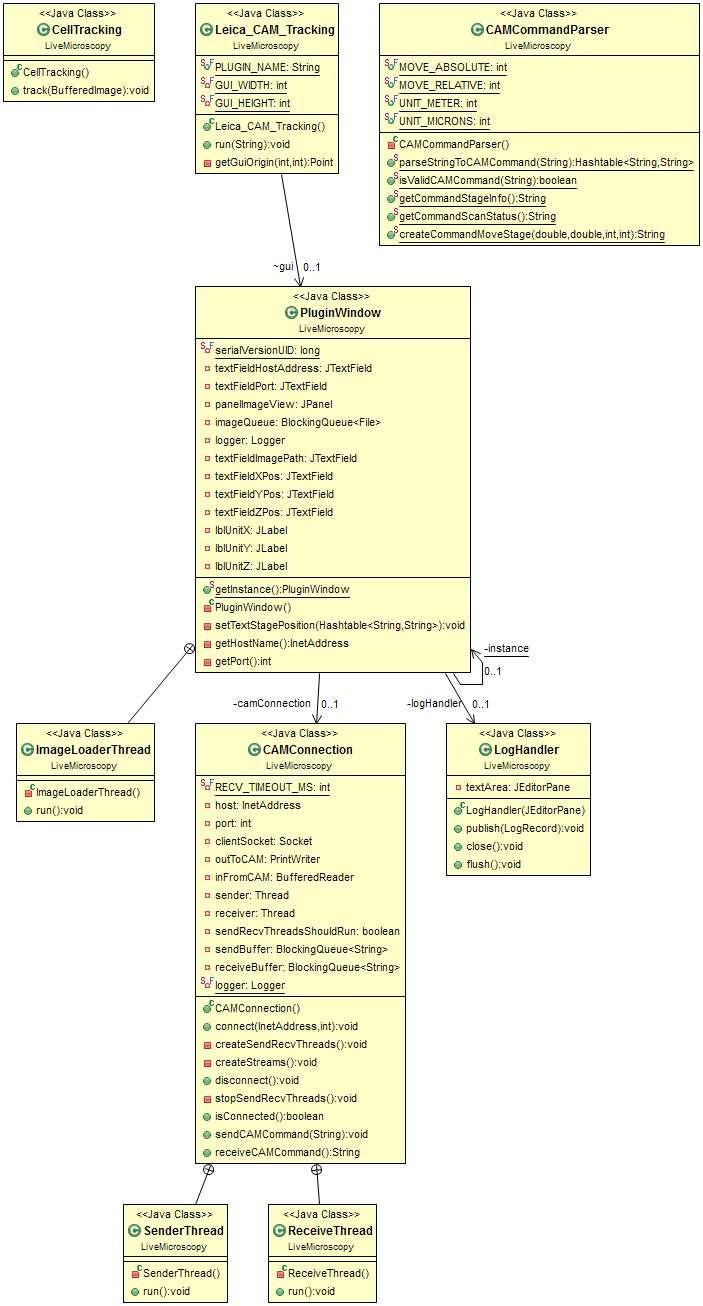
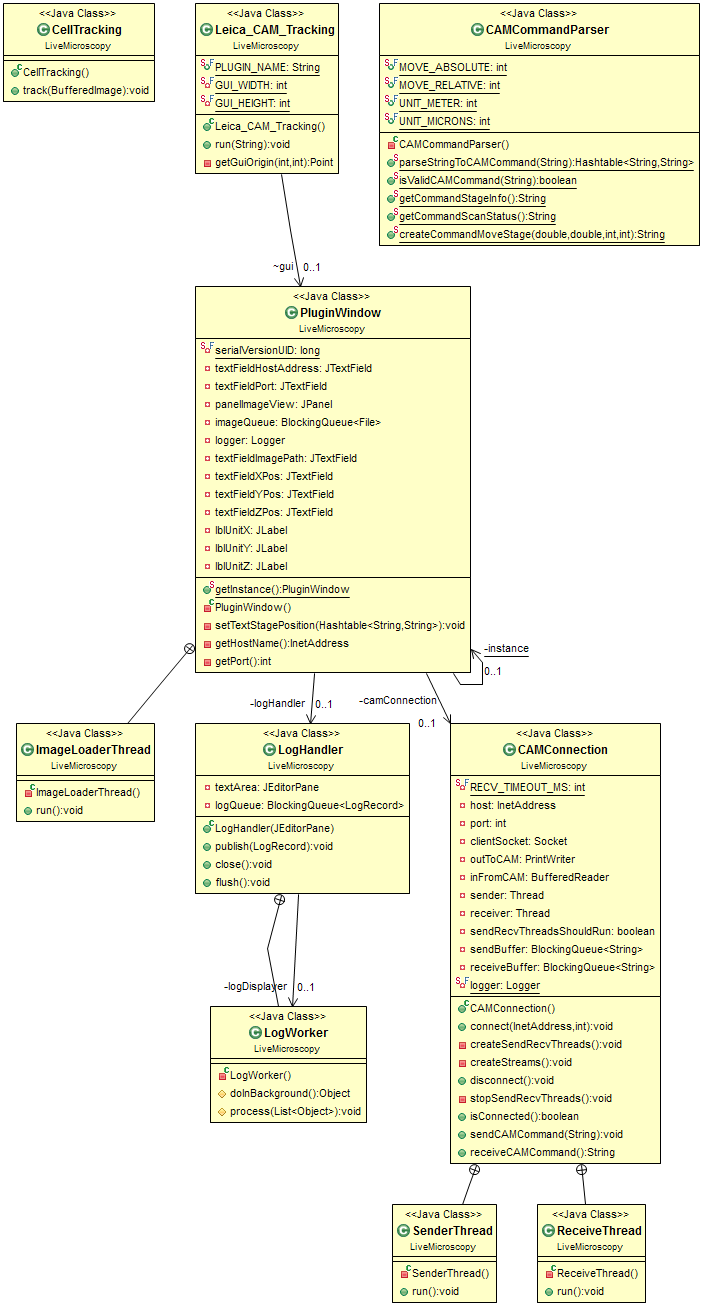
host / port fields become green, when connection is established

Changed region(s): [[0.1494, 0.5207, 0.9559, 1.0]]

diff --git a/src/LiveMicroscopy/PluginWindow.java b/src/LiveMicroscopy/PluginWindow.java
@@ -9,7 +9,12 @@ import java.awt.event.ActionEvent;
 import java.awt.event.ActionListener;
 import java.awt.image.BufferedImage;
 import java.io.File;
+import java.io.FileInputStream;
+import java.io.FileNotFoundException;
+import java.io.FileOutputStream;
 import java.io.IOException;
+import java.io.ObjectInputStream;
+import java.io.ObjectOutputStream;
 import java.net.InetAddress;
 import java.net.UnknownHostException;
 import java.util.Hashtable;
@@ -35,6 +40,8 @@ import javax.swing.JTextField;
 import javax.swing.border.EtchedBorder;
 import javax.swing.border.TitledBorder;
 import javax.swing.SwingConstants;
+
+import com.sun.org.apache.xml.internal.serialize.XML11Serializer;
 
 /**
  * Represents the GUI and the button actions of the ImageJ-plugin. This class is
@@ -126,7 +133,6 @@ public class PluginWindow extends JFrame {
 		textFieldPort.setBounds(55, 54, 125, 28);
 		panelConnection.add(textFieldPort);
 		textFieldPort.setText("8895");
-		textFieldPort.setEditable(false);
 		textFieldPort.setColumns(5);
 
 		JScrollPane scrollPaneLogging = new JScrollPane();
@@ -157,7 +163,8 @@ public class PluginWindow extends JFrame {
 				try {
 					camConnection.connect(getHostName(), getPort());
 					if (camConnection.isConnected()) {
-						camConnection.sendCAMCommand("Hallo CAM");
+						setConnectionStatusGUI(true);
+						String returnedMessage = camConnection.receiveCAMCommand();
 					}
 				} catch (UnknownHostException e) {
 					logger.warning("Invalid host address format: " + e.getMessage());
@@ -179,6 +186,7 @@ public class PluginWindow extends JFrame {
 			public void actionPerformed(ActionEvent event) {
 				if (camConnection != null) {
 					camConnection.disconnect();
+					setConnectionStatusGUI(false);
 				}
 			}
 		});
@@ -278,10 +286,12 @@ public class PluginWindow extends JFrame {
 			public void actionPerformed(ActionEvent event) {
 				if (camConnection.isConnected()) {
 					String camCommand = textAreaCamCommand.getText();
-					if (CAMCommandParser.isValidCAMCommand(camCommand))
+					if (CAMCommandParser.isValidCAMCommand(camCommand)) {
 						camConnection.sendCAMCommand(camCommand);
-					else
+						String returnedMessage = camConnection.receiveCAMCommand();
+					} else {
 						logger.severe("Wrong CAM Command structure.");
+					}
 				}
 			}
 		});
@@ -317,6 +327,7 @@ public class PluginWindow extends JFrame {
 			public void actionPerformed(ActionEvent event) {
 				if (camConnection.isConnected()) {
 					camConnection.sendCAMCommand(CAMCommandParser.getCommandScanStatus());
+					String returnedMessage = camConnection.receiveCAMCommand();
 				}
 			}
 		});
@@ -416,7 +427,7 @@ public class PluginWindow extends JFrame {
 		panelScreeningSettings.add(lblResolution);
 
 		JComboBox<String> comboBoxResolution = new JComboBox<String>();
-		comboBoxResolution.setModel(new DefaultComboBoxModel(new String[] { "not yet implemented" }));
+		comboBoxResolution.setModel(new DefaultComboBoxModel<String>(new String[] { "not yet implemented" }));
 		comboBoxResolution.setBounds(85, 24, 95, 20);
 		panelScreeningSettings.add(comboBoxResolution);
 
@@ -432,30 +443,6 @@ public class PluginWindow extends JFrame {
 		JButton btnStartTracking = new JButton("Start Tracking");
 		btnStartTracking.setBounds(10, 83, 170, 23);
 		panelScreeningSettings.add(btnStartTracking);
-
-		JMenuBar menuBar = new JMenuBar();
-		setJMenuBar(menuBar);
-
-		JMenu mnConnection = new JMenu("Connection");
-		menuBar.add(mnConnection);
-
-		JMenuItem mntmSaveSettings = new JMenuItem("Save Settings...");
-		mntmSaveSettings.addActionListener(new ActionListener() {
-			public void actionPerformed(ActionEvent event) {
-				// TODO: Implement saving connection settings
-				IJ.showMessage("Not yet implemented");
-			}
-		});
-		mnConnection.add(mntmSaveSettings);
-
-		JMenuItem mntmLoadSettings = new JMenuItem("Load Settings...");
-		mntmLoadSettings.addActionListener(new ActionListener() {
-			public void actionPerformed(ActionEvent e) {
-				// TODO: Implement loading connection settings
-				IJ.showMessage("Not yet implemented");
-			}
-		});
-		mnConnection.add(mntmLoadSettings);
 	}
 
 	// >>>>>>>>>>>>>>>>>>>>>>>>>>>>>>>>>>>>>>>>>>>>>>>>>>>>>>>>>>>>>>>>>>>>>>>>
@@ -463,14 +450,31 @@ public class PluginWindow extends JFrame {
 	// <<<<<<<<<<<<<<<<<<<<<<<<<<<<<<<<<<<<<<<<<<<<<<<<<<<<<<<<<<<<<<<<<<<<<<<<
 
 	private void setTextStagePosition(Hashtable<String, String> camCommand) {
-		if (camCommand.get("app").equals("matrix") && camCommand.get("dev").equals("stage")
-				&& camCommand.get("info_for").equals(Leica_CAM_Tracking.PLUGIN_NAME)) {
-			textFieldXPos.setText(camCommand.get("xpos"));
-			textFieldYPos.setText(camCommand.get("ypos"));
-			textFieldZPos.setText(camCommand.get("zpos"));
-			lblUnitX.setText(camCommand.get("unit"));
-			lblUnitY.setText(camCommand.get("unit"));
-			lblUnitZ.setText(camCommand.get("unit"));
+		if (camCommand.containsKey("app") && camCommand.containsKey("dev") 
+				&& camCommand.containsKey("info_for")) {
+			if (camCommand.get("app").equals("matrix") && camCommand.get("dev").equals("stage")
+					&& camCommand.get("info_for").equals(Leica_CAM_Tracking.PLUGIN_NAME)) {
+				textFieldXPos.setText(camCommand.get("xpos"));
+				textFieldYPos.setText(camCommand.get("ypos"));
+				textFieldZPos.setText(camCommand.get("zpos"));
+				lblUnitX.setText(camCommand.get("unit"));
+				lblUnitY.setText(camCommand.get("unit"));
+				lblUnitZ.setText(camCommand.get("unit"));
+			}
+		}
+	}
+	
+	private void setConnectionStatusGUI(boolean connected) {
+		if (connected) {
+			textFieldHostAddress.setEnabled(false);
+			textFieldHostAddress.setBackground(new Color(102, 255, 000));
+			textFieldPort.setEnabled(false);
+			textFieldPort.setBackground(new Color(102, 255, 000));
+		} else {
+			textFieldHostAddress.setEnabled(true);
+			textFieldHostAddress.setBackground(Color.WHITE);
+			textFieldPort.setEnabled(true);
+			textFieldPort.setBackground(Color.WHITE);
 		}
 	}
 
@@ -505,6 +509,8 @@ public class PluginWindow extends JFrame {
 
 		@Override
 		public void run() {
+			Thread.currentThread().setName("Image Loader Thread");
+			
 			try {
 				CellTracking cellTracking = new CellTracking();
 
@@ -514,9 +520,8 @@ public class PluginWindow extends JFrame {
 					panelImageView.paintComponents(panelImageView.getGraphics());
 					panelImageView.getGraphics().drawImage(image, 0, 0, null);
 
-					// TODO: Cell tracking and stage movement calculation comes
-					// here!
-					cellTracking.track(image); // or something ^^
+					// TODO: Cell tracking and stage movement calculation comes here!
+					cellTracking.track(image); // it's something ^^
 
 					// END _TODO
 

diff --git a/src/LiveMicroscopy/CAMConnection.java b/src/LiveMicroscopy/CAMConnection.java
@@ -10,6 +10,7 @@ import java.net.Socket;
 import java.net.SocketException;
 import java.util.concurrent.BlockingQueue;
 import java.util.concurrent.LinkedBlockingQueue;
+import java.util.concurrent.TimeUnit;
 import java.util.logging.Logger;
 
 /**
@@ -27,14 +28,12 @@ public class CAMConnection {
 	// <<<<<<<<<<<<<<<<<<<<<<<<<<<<<<<<<<<<<<<<<<<<<<<<<<<<<<<<<<<<<<<<<<<<<<<<
 
 	// timeout for blocking receive functions
-	private static final int RECV_TIMEOUT_MS = 500;
+	private static final int RECV_TIMEOUT_MS = 100;
 
 	// >>>>>>>>>>>>>>>>>>>>>>>>>>>>>>>>>>>>>>>>>>>>>>>>>>>>>>>>>>>>>>>>>>>>>>>>
 	// Connection fields
 	// <<<<<<<<<<<<<<<<<<<<<<<<<<<<<<<<<<<<<<<<<<<<<<<<<<<<<<<<<<<<<<<<<<<<<<<<
 
-	private InetAddress host;
-	private int port;
 	private Socket clientSocket 		= null;
 	private PrintWriter outToCAM 		= null;
 	private BufferedReader inFromCAM 	= null;
@@ -58,12 +57,12 @@ public class CAMConnection {
 	/**
 	 * Connects to host and creates input- and output-streams.
 	 */
-	public synchronized void connect(InetAddress host, int port) {
+	public void connect(InetAddress host, int port) {
 		try {
 			logger.info("Connecting to " + host + " at port " + port + "...");
-			logger.getHandlers()[0].flush();
 			
 			clientSocket = new Socket(host, port);
+			clientSocket.setSoTimeout(RECV_TIMEOUT_MS);
 			
 			createStreams();
 			createSendRecvThreads();
@@ -97,7 +96,6 @@ public class CAMConnection {
 		outToCAM = new PrintWriter(outputStream);
 		
 		// input
-		clientSocket.setSoTimeout(RECV_TIMEOUT_MS);
 		InputStream inputStream = clientSocket.getInputStream();
 		inFromCAM = new BufferedReader(new InputStreamReader(inputStream));
 	}
@@ -108,7 +106,7 @@ public class CAMConnection {
 	 * socket. It will prompt windows to close and remove the JAVA based socket
 	 * from the socket server list.
 	 */
-	public synchronized void disconnect() {
+	public void disconnect() {
 		if (!(clientSocket == null)) {
 			try {
 				stopSendRecvThreads();
@@ -146,7 +144,7 @@ public class CAMConnection {
 		sender.join();
 	}
 
-	public synchronized boolean isConnected() {
+	public boolean isConnected() {
 		if (clientSocket != null)
 			if (clientSocket.isConnected())
 				return true;
@@ -160,9 +158,10 @@ public class CAMConnection {
 	 * @param command
 	 *            The CAM command
 	 */
-	public synchronized void sendCAMCommand(String command) {
+	public void sendCAMCommand(String command) {
 		try {
 			sendBuffer.put(command);
+			logger.info("Sent CAM command: " + command);
 		} catch (InterruptedException e) {
 			logger.warning("Interrupted while sending command: " + command + "\n> Error: " + e.getMessage() + " <");
 		}
@@ -173,15 +172,16 @@ public class CAMConnection {
 	 * 
 	 * @return last received CAM command
 	 */
-	public synchronized String receiveCAMCommand() {
+	public String receiveCAMCommand() {
 		String camCommand = "";
 		try {
-			camCommand = receiveBuffer.take();
-		} catch (InterruptedException e) {
-			logger.warning("Interrupted while receiving command: " + "\n> Error: " + e.getMessage() + " <");
+			camCommand = receiveBuffer.poll(150, TimeUnit.MILLISECONDS);
+		} catch (InterruptedException e) {}
+		if (camCommand != null) {
+			logger.info("Received CAM command: " + camCommand);
+			return camCommand;
 		}
-
-		return camCommand;
+		return "";
 	}
 	
 	// >>>>>>>>>>>>>>>>>>>>>>>>>>>>>>>>>>>>>>>>>>>>>>>>>>>>>>>>>>>>>>>>>>>>>>>>
@@ -196,20 +196,20 @@ public class CAMConnection {
 
 		@Override
 		public void run() {
-			logger.info("Starting sender thread.");
+			Thread.currentThread().setName("CAM Send Thread");
+			logger.info("Starting " + Thread.currentThread().getName() + "...");
 
 			while (sendRecvThreadsShouldRun) {
 				try {
 					String command = sendBuffer.take();
 					outToCAM.println(command);
 					outToCAM.flush();
-					logger.info("Sent CAM command: " + command);
 					int delayTime = 50; // delay for CAM Commands --> necessary for multiple CAM Commands (due to CAM documentation)
 					Thread.sleep(delayTime);
 				} catch (InterruptedException e) {} // No need to handle this
 			}
 			
-			logger.info("SenderThread terminated.");
+			logger.info(Thread.currentThread().getName() + " terminated.");
 		}
 	}
 
@@ -225,7 +225,8 @@ public class CAMConnection {
 
 		@Override
 		public void run() {
-			logger.info("Starting receiver thread.");
+			Thread.currentThread().setName("CAM Receive Thread");
+			logger.info("Starting " + Thread.currentThread().getName() + "...");
 
 			while (sendRecvThreadsShouldRun) {
 				try {
@@ -233,13 +234,12 @@ public class CAMConnection {
 					command = inFromCAM.readLine(); // realized with timeout at construction of inputStream
 					if (!command.isEmpty()) {
 						receiveBuffer.put(command);
-						logger.info("Received CAM command: " + command);
 					}
 				} catch (IOException e) { // No log because IOException is just caused by readLine() timeout.
 				} catch (InterruptedException e) {} // No need to handle this
 			}
 			
-			logger.info("ReceiveThread terminated.");
+			logger.info(Thread.currentThread().getName() + " terminated.");
 		}
 	}
 }

diff --git a/src/LiveMicroscopy/Leica_CAM_Tracking.java b/src/LiveMicroscopy/Leica_CAM_Tracking.java
@@ -1,4 +1,5 @@
 package LiveMicroscopy;
+import ij.IJ;
 import ij.plugin.PlugIn;
 
 import java.awt.Dimension;
@@ -39,6 +40,7 @@ public class Leica_CAM_Tracking implements PlugIn {
 
 	@Override
 	public void run(String arg0) {
+		
 		try { // set look and feel to OS style
 			UIManager.setLookAndFeel(UIManager.getSystemLookAndFeelClassName());
 		} catch (ClassNotFoundException | InstantiationException | IllegalAccessException | UnsupportedLookAndFeelException e) {
@@ -55,7 +57,7 @@ public class Leica_CAM_Tracking implements PlugIn {
 	// >>>>>>>>>>>>>>>>>>>>>>>>>>>>>>>>>>>>>>>>>>>>>>>>>>>>>>>>>>>>>>>>>>>>>>>>
 	// Helper functions
 	// <<<<<<<<<<<<<<<<<<<<<<<<<<<<<<<<<<<<<<<<<<<<<<<<<<<<<<<<<<<<<<<<<<<<<<<<
-
+	
 	/**
 	 * Gives the top left point for a GUI window of the given size based on the
 	 * screen resolution. This point can be used to place the GUI exactly in the

diff --git a/src/LiveMicroscopy/LogHandler.java b/src/LiveMicroscopy/LogHandler.java
@@ -6,7 +6,6 @@ import java.util.logging.Level;
 import java.util.logging.LogRecord;
 
 import javax.swing.JEditorPane;
-import javax.swing.SwingUtilities;
 import javax.swing.SwingWorker;
 
 /**
@@ -34,7 +33,7 @@ public class LogHandler extends java.util.logging.Handler {
 	}
 
 	@Override
-	public void publish(LogRecord record) {
+	public synchronized void publish(LogRecord record) {
 		try {
 			logQueue.put(record);
 		} catch (InterruptedException e) {}
@@ -78,8 +77,8 @@ public class LogHandler extends java.util.logging.Handler {
 	// <<<<<<<<<<<<<<<<<<<<<<<<<<<<<<<<<<<<<<<<<<<<<<<<<<<<<<<<<<<<<<<<<<<<<<<<
 	
 	@Override
-	public void close() throws SecurityException {}
+	public synchronized void close() throws SecurityException {}
 	
 	@Override
-	public void flush() {}
+	public synchronized void flush() {}
 }
